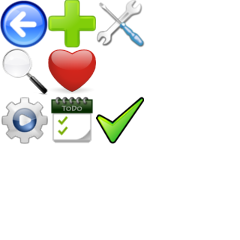
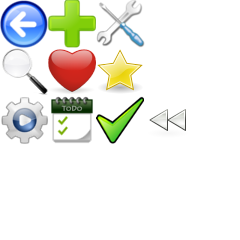
Add stats, most played and last played, GC

Changed region(s): [[0.4083, 0.2042, 0.6125, 0.4083], [0.6125, 0.4375, 0.7875, 0.5542]]

diff --git a/app.js b/app.js
@@ -173,6 +173,17 @@ app.get('/tag/search',  function(req,res){
     });
 });
 
+var getImageUrl = function(path, file){
+   var imagePath = path+utils.removeExtension(file)+".png",
+	existImage = fs.existsSync(imagePath);
+	
+    if (!existImage){
+	imagePath = path+utils.removeExtension(file)+".jpg";
+	existImage = fs.existsSync(imagePath);
+    }
+     if (existImage) return "/image?path="+imagePath; 
+     else undefined;
+}
 function processGames(f,platform,roms, covers,search ){
 
     var nameMap;
@@ -199,14 +210,6 @@ function processGames(f,platform,roms, covers,search ){
             //console.log("Game name " +file+ " is empty");
         } else if ( !search || game.toUpperCase().indexOf(search.toUpperCase()) != -1 ){
                    
-            var imagePath = covers+utils.removeExtension(file)+".png",
-                existImage = fs.existsSync(imagePath);
-                
-            if (!existImage){
-                imagePath = covers+utils.removeExtension(file)+".jpg";
-                existImage = fs.existsSync(imagePath);
-            }
-            
             files[n] = {
               file: fileNoExtension,
               name: game,
@@ -214,7 +217,8 @@ function processGames(f,platform,roms, covers,search ){
             };
 
             //files[j].description = "";
-            if (existImage) files[n].image = "/image?path="+(imagePath); 
+	    var imagePath = getImageUrl(covers,file);
+            if (imagePath) files[n].image = imagePath; 
             
             try{
                 files[n].type = fs.lstatSync(roms+"/"+file).isDirectory()?"folder":"file";
@@ -270,7 +274,7 @@ app.get('/downloadCover',  function(req,res){
      db.get("select * from platform where platform = ? ",[platform] , function (err, row){
         var path = row.covers +name + ".png";
         
-        thegamesdb.downloadCover(sanitizedName,platform,function(error, url){
+        thegamesdb.downloadImage(sanitizedName,platform,function(error, url){
             if (error) {
 	      console.log("Unable to download cover from thegamesdb " + error);
               downloadFromGoogle();
@@ -279,7 +283,7 @@ app.get('/downloadCover',  function(req,res){
             });
         });
         var downloadFromGoogle = function(){
-          google.downloadImage(platform + " "+ name, function(error,url){
+          google.downloadImage(platform + " "+ name + " gameplay", function(error,url){
             if (error) res.json(error);
             else utils.saveImage(url, path, function(result){
                 res.json(result);
@@ -295,24 +299,71 @@ app.get('/run',  function(req,res){
     
     var command = req.query.c,
         name = req.query.g,
-        platform = req.query.p;
+        platform = req.query.p,
+	now = new Date().getTime();
     
     db.get("select * from stats where name LIKE ? AND platform = ?",[name,platform] , function (err, row){   
-        if (!row) db.run("INSERT OR IGNORE INTO stats (platform,name,count) VALUES (?,?,1)",  [platform,name]);  
-        else db.run("UPDATE stats SET count = ? where platform = ? and name = ?",[row.count-0+1,platform,name]);
+        if (!row) db.run("INSERT OR IGNORE INTO stats (platform,name,count, last_play) VALUES (?,?,1, ?)",  [platform,name, now]);  
+        else db.run("UPDATE stats SET count = ? where platform = ? and name = ? and last_play = ?",[row.count-0+1,platform,name, now]);
      });
     
     command = command +" >> run.log 2>&1";
 
     console.log("Running "+command);
     
-    exec(command, function puts(error, stdout, stderr) { 
+    var com = exec(command, function(error, stdout, stderr) { 
       if (error) console.error(error); 
-          
-      res.json({error: error,
-                stdout: stdout,
-                stderr: stderr});
-    });  
+    });
+    
+    res.json({pid: com.pid});
+    
+});
+
+var stats2games =function(stats, imageFolder){
+
+ var games = [];
+ for (var i=0;i<stats.length; i++){
+   var stat  = stats[i];
+       name = utils.removeExtension(stat.name),
+       imagePath = getImageUrl(imageFolder, stat.name),
+       game = {
+	  file: name,
+	  name: name,
+	  ext: utils.extension(stat.name),
+	  image: imagePath,
+	  type: 'file'
+	};
+   games.push(game);
+ }
+ return games;
+  
+}
+var stats = function(sql, platform, count, res){
+  
+  db.all(sql,[platform,count] , function (err, stats){   
+	if (err) console.error(err);   
+	 db.get("select * from platform where platform = ? ",[platform] , function (err, plat){
+	    var games = stats2games(stats, plat.covers);
+	    res.json({folder: plat.roms, files:games, count: games.length});
+	 });
+     });    
+}
+app.get('/stats/most-played',  function(req,res){
+    
+    var count = utils.getOrElse(req.query.c,10),
+	platform = req.query.p,
+	sql = "select * from stats WHERE platform = ? AND count > 0 ORDER BY count DESC LIMIT ?";
+	
+    stats(sql, platform, count, res);   
+});
+
+app.get('/stats/last-played',  function(req,res){
+    
+    var count = utils.getOrElse(req.query.c,10),
+	platform = req.query.p,
+	sql = "select * from stats WHERE platform = ? AND last_play is not null ORDER BY last_play DESC LIMIT ?";
+	
+     stats(sql,  platform,count, res);
     
 });
 

diff --git a/public/js/gameManager/game-manager.js b/public/js/gameManager/game-manager.js
@@ -20,14 +20,25 @@ var hoverMaxTime = 2500;
             platform(currentPlatform,$("#searchInput").val());
         }
     });
-    $(".img-search").click(function(){platform(currentPlatform,$("#searchInput").val())});
-    $(".img-favorite").click(function(){tagSearch(currentPlatform,"favorite")});
-    $(".img-todo").click(function(){tagSearch(currentPlatform,"todo")});
-    $(".img-finish").click(function(){tagSearch(currentPlatform,"finish")});
-    
+    $(".icon-search").click(function(){platform(currentPlatform,$("#searchInput").val())});
+    $(".icon-favorite").click(function(){tagSearch(currentPlatform,"favorite")});
+    $(".icon-todo").click(function(){tagSearch(currentPlatform,"todo")});
+    $(".icon-finish").click(function(){tagSearch(currentPlatform,"finish")});
+    $(".icon-last-played").click(function(){stats(currentPlatform,"last-played")});
+    $(".icon-most-played").click(function(){stats(currentPlatform,"most-played")});
+
     $("#background").css("height",$(window).height());
 });
  
+var stats = function(platform, stats){
+  $.ajax({
+        url: "stats/"+stats+"?p="+platform.platform,
+        success: function (json) {
+            lsJson(json);
+            $("#fileCount").html(json.count+" of "+json.total);
+        }
+    });
+}
 function platform(platform, search)
 {   
     if (search != undefined) search = "&s="+search; else search = "";
@@ -54,13 +65,14 @@ function tagSearch(platform,tag)
     });
 } 
 
+
 function lsJson(response){
     var folder = response.folder;
 
     $("#listFiles").empty();
     for(var i=0;i<response.files.length;i++){
         var file = response.files[i];
-        if (file.type == "file"){ //filter out folders
+        if (file.id > 0 || file.type == "file"){ //filter out folders
 
             var fileResponse = buildFile(folder, file);
             $("#listFiles").append(fileResponse);

diff --git a/public/js/gameManager/platforms.js b/public/js/gameManager/platforms.js
@@ -15,7 +15,7 @@ loadPlatforms();
 
 //http://thegamesdb.net/api/GetPlatformsList.php
 var availablePlatforms=["Arcade","Atari 2600","Dos","NeoGeo","Nintendo 64","Nintendo DS","Nintendo Entertainment System (NES)",
-            "Nintendo Game Boy", "Nintendo Game Boy Advance", "Nintendo Game Boy Color","ScummVM",
+            "Nintendo Game Boy", "Nintendo Game Boy Advance", "Nintendo Game Boy Color","Nintendo GameCube","ScummVM",
             "Sega Game Gear","Sega Genesis","Sega Saturn", "Sony Playstation","Sony Playstation 2",
             "Super Nintendo (SNES)", "Pc"];
         
@@ -32,6 +32,7 @@ function platformToShort(platform){
     case "Nintendo Game Boy": return "gb";
     case "Nintendo Game Boy Advance": return "gba";
     case "Nintendo Game Boy Color": return "gbc";
+    case "Nintendo GameCube": return "gc";
     case "Super Nintendo (SNES)": return "snes";
     case "Sega Game Gear": return "gg";
     case "Sega Genesis": return "md";

diff --git a/public/css/style.css b/public/css/style.css
@@ -128,7 +128,7 @@ position:absolute;
 }
 
 #searchInput{
-    width:260px;
+    width:170px;
     height:100%;
     font-size:large;
 }
@@ -191,7 +191,7 @@ display:inline-block ;
     height:50px;
     margin:1px;
     display:inline-block;*/
-      width:48px;
+  width:48px;
   height:50px;
   background-repeat: no-repeat;
     
@@ -244,6 +244,8 @@ display:inline-block ;
 .icon-search {    background-position:0px -48px}
 .icon-favorite {  background-position:-48px -48px}
 .icon-loading { background-image:url('images/loading.gif') }
+.icon-last-played { background-position:-144px -96px}
+.icon-most-played { background-position:-96px -48px}
 
 /*FOUNDATION FIXES*/
 .left {  height:0px; }

diff --git a/public/index.html b/public/index.html
@@ -55,6 +55,9 @@
               <button class="secondary icon-favorite"  />
               <button class="secondary icon-todo"  />
               <button class="secondary icon-finish"  />
+              <button class='icon-last-played' />
+              <button class='icon-most-played' />
+
             </div>
             <div id="listFiles" class=" border">
             <!-- Here goes the list of games -->

diff --git a/utils.js b/utils.js
@@ -2,6 +2,10 @@ var http = require('http'),
     fs = require('fs');
 
 module.exports = {
+    getOrElse: function(value, def){
+	if (value !== undefined) return value;
+	else return def;
+    },
    removeExtension: function (file) {
         var extensionIndex = file.lastIndexOf(".") ;
         return file.substr(0,extensionIndex);

diff --git a/thegamesdb.js b/thegamesdb.js
@@ -25,7 +25,7 @@ module.exports = {
         });
     },
     
-    downloadCover: function (name,platform,callback){
+    downloadImage: function (name,platform,callback){
       console.log("Downloading cover from thegamesdb " +name);
         var gameDbPlatform = platformToThegamesdb(platform),
             startTime = Date.now();
